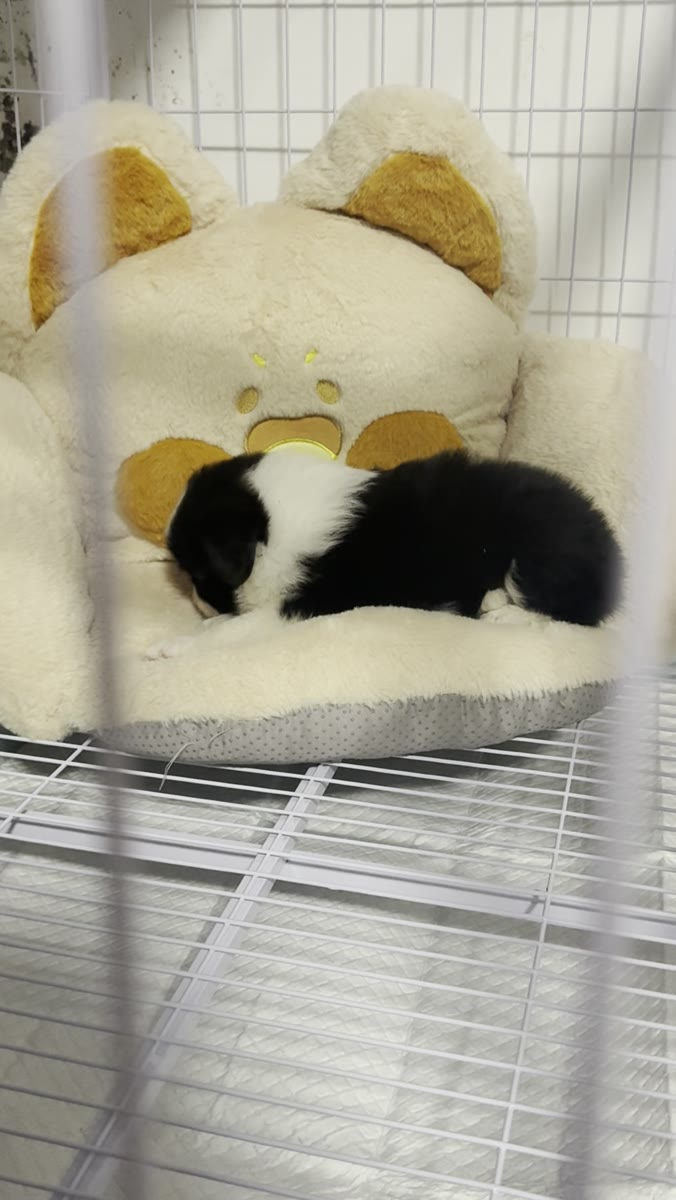
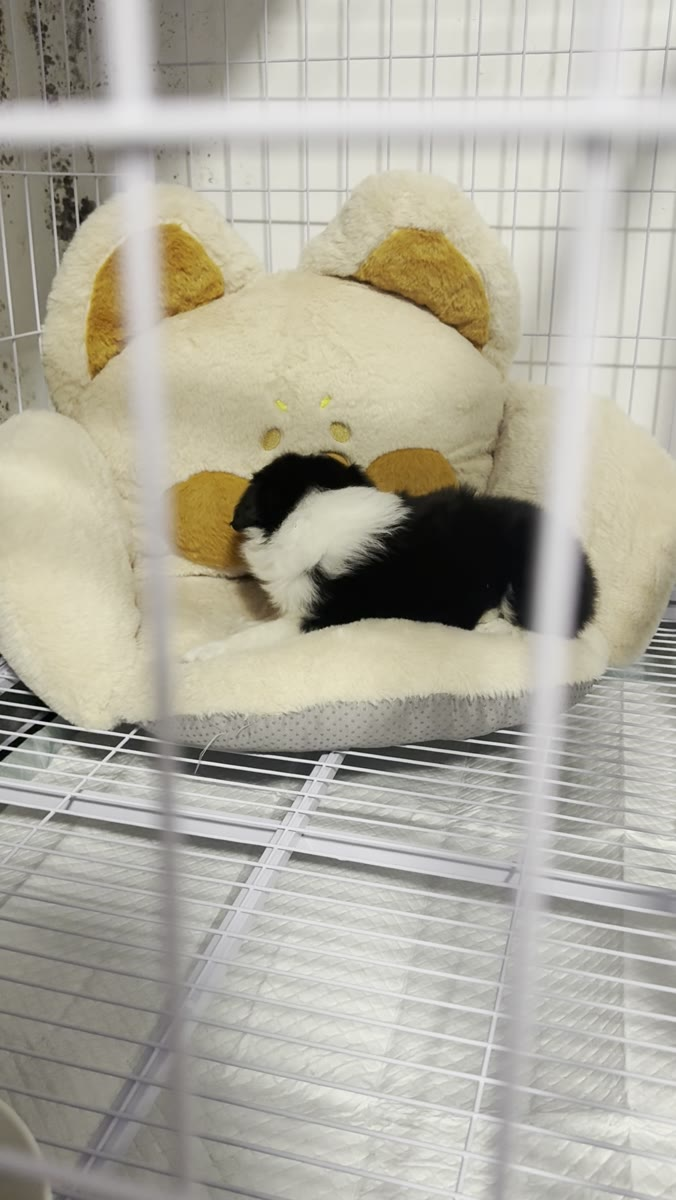
feat: 新增 10月9日 白板喝羊奶照片
- src/content/days/2026-10-09/raw/IMG_4133.jpg（原 HEIC 格式用 sips 转为 JPEG）
- src/content/days/2026-10-09/meta.md
- public/processed/2026-10-09/*（处理后的 WebP）

diff --git a/src/content/days/2026-10-09/meta.md b/src/content/days/2026-10-09/meta.md
@@ -1,0 +1,10 @@
+---
+date: "2026-10-09"
+title: ""
+mood: ""
+weather: ""
+note: "白板正在喝羊奶～"
+photos:
+  - src: IMG_4133.jpg
+videos: []
+---
